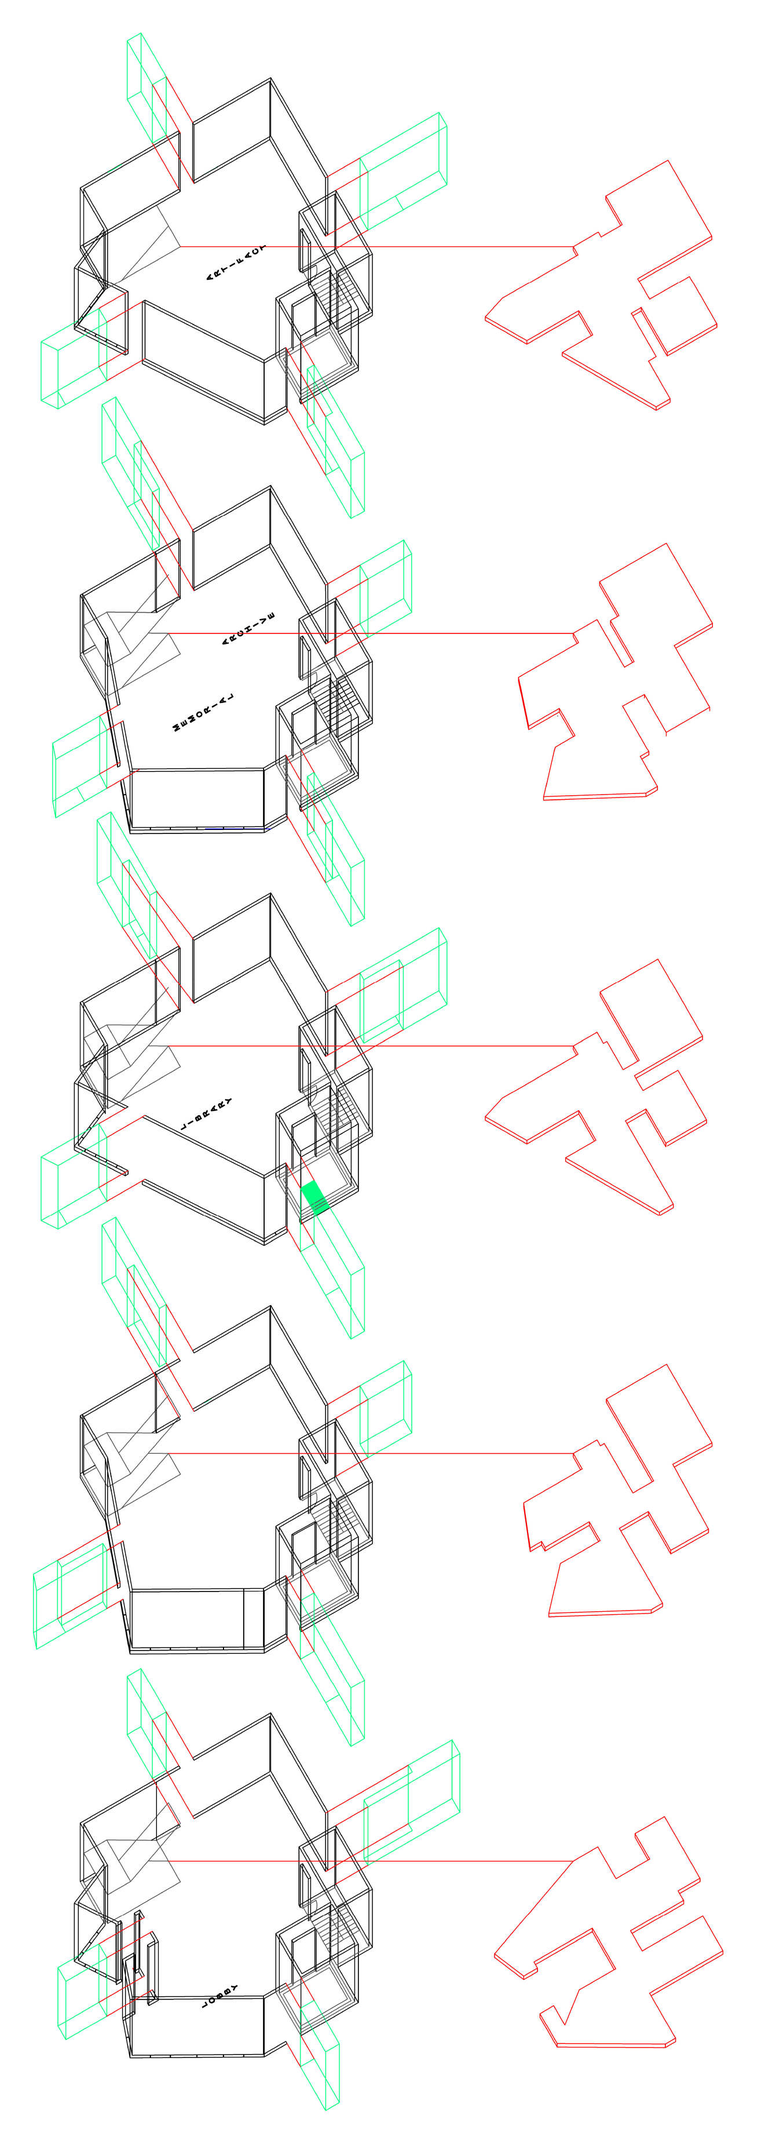
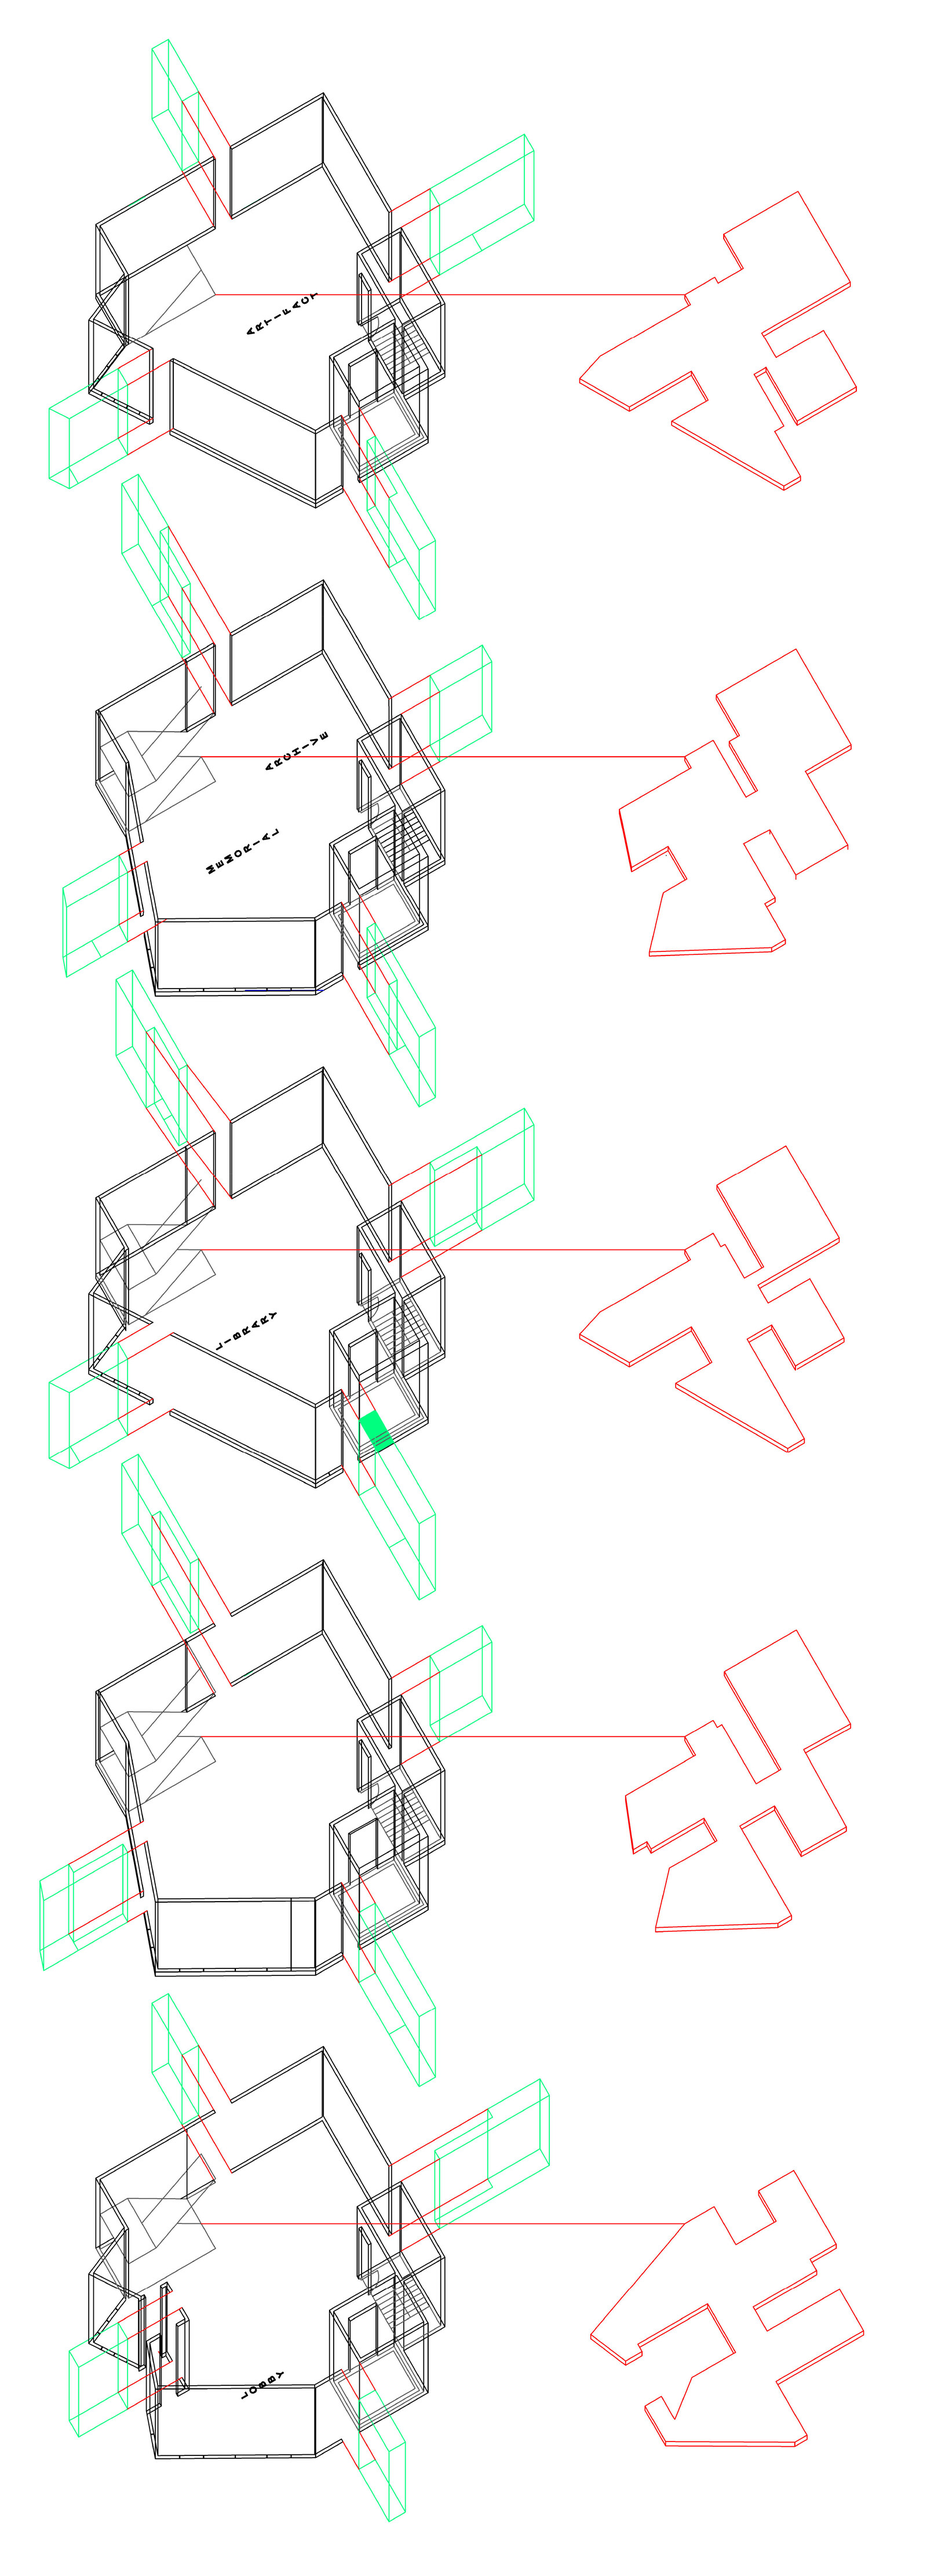
Internet Museum: plans, section and full-size axonometric; Scale Models: eleven more model photos

diff --git a/index.html b/index.html
@@ -1254,11 +1254,11 @@
         <a class="home-entry" href="#internet-museum" onclick="stackOpen(&apos;internet-museum&apos;); return false;">
           <div class="home-image-wrap">
             <div class="home-tag"><span class="num">023</span>Museum</div>
-            <img decoding="async" loading="lazy" src="images/vjl/internet-museum/cover.jpg" alt="Internet Museum, floor-by-floor axonometric" onload="this.classList.add('loaded')">
+            <img decoding="async" loading="lazy" src="images/vjl/internet-museum/section-elevation.jpg" alt="Internet Museum, elevation and section" onload="this.classList.add('loaded')">
           </div>
           <div class="home-meta">
             <div class="home-meta-name">Internet Museum</div>
-            <div class="home-meta-loc">Museum concept<span class="sep">/</span>Four concrete pillars<span class="sep">/</span>Floor-by-floor axonometric</div>
+            <div class="home-meta-loc">Museum concept<span class="sep">/</span>Four concrete pillars<span class="sep">/</span>Plans, section and axonometric</div>
           </div>
         </a>
 
@@ -1841,6 +1841,28 @@
         <div class="image-caption">3D-printed form study</div>
         <img decoding="async" loading="lazy" src="images/vjl/models/site-model.jpg" alt="Site model, folded ground plane" onload="this.classList.add('loaded')">
         <div class="image-caption">Site model, folded ground plane</div>
+        <img decoding="async" loading="lazy" src="images/vjl/models/truss-model-front.jpg" alt="Crossed-truss roof model, front" onload="this.classList.add('loaded')">
+        <div class="image-caption">Crossed-truss roof model, front</div>
+        <img decoding="async" loading="lazy" src="images/vjl/models/truss-model-above.jpg" alt="Crossed-truss roof model, from above" onload="this.classList.add('loaded')">
+        <div class="image-caption">Crossed-truss roof model, from above</div>
+        <img decoding="async" loading="lazy" src="images/vjl/models/gable-model-lit.jpg" alt="Gable hall model, lit from behind" onload="this.classList.add('loaded')">
+        <div class="image-caption">Gable hall model, lit from behind</div>
+        <img decoding="async" loading="lazy" src="images/vjl/models/gable-model-front.jpg" alt="Gable hall model, front" onload="this.classList.add('loaded')">
+        <div class="image-caption">Gable hall model, front</div>
+        <img decoding="async" loading="lazy" src="images/vjl/models/gable-model-side.jpg" alt="Gable hall model, side" onload="this.classList.add('loaded')">
+        <div class="image-caption">Gable hall model, side</div>
+        <img decoding="async" loading="lazy" src="images/vjl/models/frame-model.jpg" alt="Frame model" onload="this.classList.add('loaded')">
+        <div class="image-caption">Frame model</div>
+        <img decoding="async" loading="lazy" src="images/vjl/models/site-model-side.jpg" alt="Site model, planted roof planes" onload="this.classList.add('loaded')">
+        <div class="image-caption">Site model, planted roof planes</div>
+        <img decoding="async" loading="lazy" src="images/vjl/models/site-model-front.jpg" alt="Site model, front" onload="this.classList.add('loaded')">
+        <div class="image-caption">Site model, front</div>
+        <img decoding="async" loading="lazy" src="images/vjl/models/printed-form-front.jpg" alt="3D-printed form, front" onload="this.classList.add('loaded')">
+        <div class="image-caption">3D-printed form, front</div>
+        <img decoding="async" loading="lazy" src="images/vjl/models/printed-form-side.jpg" alt="3D-printed form, side" onload="this.classList.add('loaded')">
+        <div class="image-caption">3D-printed form, side</div>
+        <img decoding="async" loading="lazy" src="images/vjl/models/printing.jpg" alt="Form on the printer bed" onload="this.classList.add('loaded')">
+        <div class="image-caption">Form on the printer bed</div>
         <img decoding="async" loading="lazy" src="images/vjl/models/models-board.png" alt="Model and diagram board" onload="this.classList.add('loaded')">
         <div class="image-caption">Model and diagram board</div>
       </div>
@@ -1849,14 +1871,24 @@
 
     <div class="project-page" id="internet-museum">
       <div class="project-images">
-        <img decoding="async" loading="lazy" src="images/vjl/internet-museum/axo.jpg" alt="Floor-by-floor axonometric with plan outlines" onload="this.classList.add('loaded')">
-        <div class="image-caption">Floor-by-floor axonometric with plan outlines</div>
+        <img decoding="async" loading="lazy" src="images/vjl/internet-museum/section-elevation.jpg" alt="Elevation and section, six levels" onload="this.classList.add('loaded')">
+        <div class="image-caption">Elevation and section, six levels</div>
       </div>
       <div class="project-content">
         <div class="project-location">Internet Museum / Museum concept</div>
         <p class="project-description">A museum organized around four concrete pillars. The pillars carry the building and carry its story: an immigrant life is also held up by pillars, a family and a livelihood. Each floor shifts with a sharp edge that moves from left to right, standing for concealment and fear. Views out through a translucent skin change with each level and return confidence to the visitor.</p>
         <div class="project-role">Scope</div>
-        <p class="project-detail">Concept design, floor-by-floor axonometric and plan studies.</p>
+        <p class="project-detail">Concept design: floor plans for each level, section, elevation and a floor-by-floor axonometric.</p>
+      </div>
+      <div class="project-images">
+        <img decoding="async" loading="lazy" src="images/vjl/internet-museum/plan-artifact.jpg" alt="Artifact level, floor plan" onload="this.classList.add('loaded')">
+        <div class="image-caption">Artifact level, floor plan</div>
+        <img decoding="async" loading="lazy" src="images/vjl/internet-museum/plans-1.jpg" alt="Floor plans, lower levels" onload="this.classList.add('loaded')">
+        <div class="image-caption">Floor plans, lower levels</div>
+        <img decoding="async" loading="lazy" src="images/vjl/internet-museum/plans-2.jpg" alt="Floor plans, upper levels" onload="this.classList.add('loaded')">
+        <div class="image-caption">Floor plans, upper levels</div>
+        <img decoding="async" loading="lazy" src="images/vjl/internet-museum/axo.jpg" alt="Floor-by-floor axonometric with plan outlines" onload="this.classList.add('loaded')">
+        <div class="image-caption">Floor-by-floor axonometric with plan outlines</div>
       </div>
       <div class="next-page"><a href="#archive-design-2" onclick="showPage('archive-design-2')">Archived Portfolio &rarr;</a></div>
     </div>
